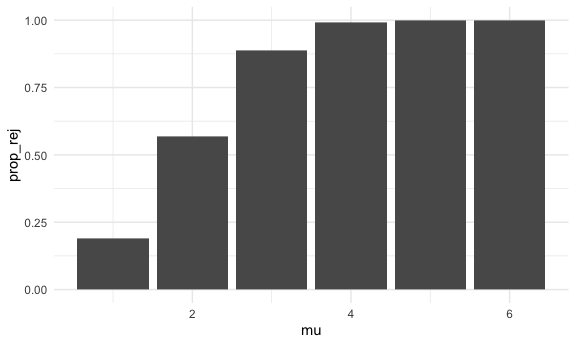
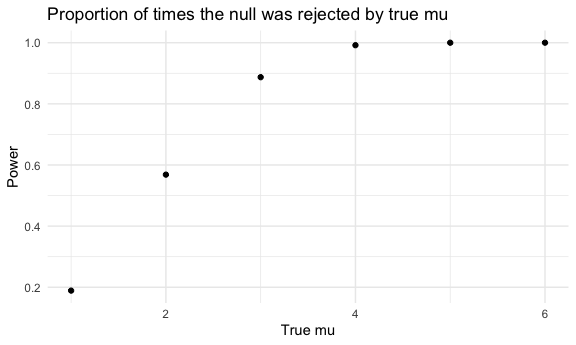
few last read thorugh changes

diff --git a/p8105_hw5_mb4650.md b/p8105_hw5_mb4650.md
@@ -359,8 +359,8 @@ path_df %>%
 <img src="p8105_hw5_mb4650_files/figure-gfm/unnamed-chunk-7-1.png" width="90%" />
 
 From the graph, we see that overall, the observations appear to be
-relatively constant over time. However, for the experimental arm, the
-observations appear to be increasing over time.
+relatively constant over time for the control group. However, for the
+experimental arm, the observations appear to be increasing over time.
 
 # Problem 3
 
@@ -431,18 +431,14 @@ plot1 =
     ## `summarise()` ungrouping output (override with `.groups` argument)
 
 ``` r
-ggplot(data = plot1, aes(x = mu, y = prop_rej, )) + geom_bar(stat ="identity")
+ggplot(data = plot1, aes(x = mu, y = prop_rej )) + 
+  geom_point() +
+  labs(x = "True mu", y = "Power", title = "Proportion of times the null was rejected by true mu")
 ```
 
 <img src="p8105_hw5_mb4650_files/figure-gfm/unnamed-chunk-12-1.png" width="90%" />
 
-``` r
-ggplot(data = plot1, aes(x = mu, y = prop_rej )) + geom_point()
-```
-
-<img src="p8105_hw5_mb4650_files/figure-gfm/unnamed-chunk-12-2.png" width="90%" />
-
-From the graph we see that as the effect size gets larger (mu gets
+From the graph we see that as the effect size gets larger (true mu gets
 further from the null value of 0), the power increases rapidly and
 plateaus as it reaches 1.
 
@@ -487,15 +483,27 @@ avg_est + avg_est_rejected
 <img src="p8105_hw5_mb4650_files/figure-gfm/unnamed-chunk-13-1.png" width="90%" />
 
 The sample average of mu hat across tests for which the null is rejected
-is approximately equal to the true value of mu, the further away mu is
-from the null value of mu = 0. This is because we are testing whether
-the average value from the dataset we created is or is not different
-from the null value, 0. When the true mu is close to the null and
-depending on the standard deviation, it is more likely that you will
-reject only when the average values for the dataset are more extreme or
-further from the true value, which is why the average of the estimates
-among those that were rejected is different than the true mu for when
-the true mu is equal to 1 and 2. However, as the true mu gets further
-away from the null value, we are more likely to reject for the average
-estimate when it is close to the true mu as it is different from the
-null value.
+is approximately equal to the true value of mu the further away the true
+mu is from the null value of mu = 0.
+
+This is because we are testing whether the average value from the
+dataset we created is or is not different from the null value, 0. If the
+observed average value is significantly different from the null value,
+then we would reject the null hypothesis.
+
+For each dataset, we are generating a random sample with the mean being
+the true mu and standard deviation equal to 5. From this random sample,
+we generate an estimated sample mean. When generated multiple times and
+given that CLT is satisfied since sample size is 30, the distribution of
+sample means will be normally distributed around the true mu we used to
+generate the sample.
+
+When the true mu is close to the null and depending on the standard
+deviation, it is more likely that you will reject only when the
+estimates for the dataset are more extreme or further from the true
+value, which is why the average of the estimates among those that were
+rejected is different than the true mu for when the true mu is equal to
+1, 2, and 3. However, as the true mu gets further away from the null
+value, we are more likely to reject for the average estimate when it is
+close to the true mu rather than the more extreme values, as the true mu
+itself is different from the null value.
